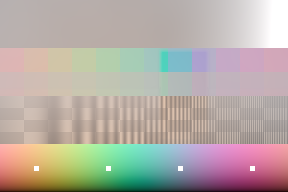
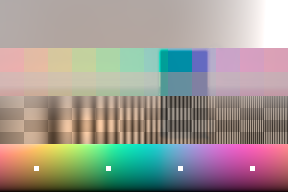
Fix depth

diff --git a/crates/calibraw-gpu/src/pipeline/gpu/scene_surface.rs b/crates/calibraw-gpu/src/pipeline/gpu/scene_surface.rs
@@ -17,14 +17,17 @@
 //! nearest smooth depth of its footprint instead, so a shadow ray that passes
 //! in front of every surface near it can skip testing them (relight.wgsl).
 //!
-//! All values are normalized relative depth (near 0, far 1) in the full-image
-//! coordinate frame of the square scene-depth texture. Gradients are depth per
+//! All of that works on the generated map, whose levels are even and whose
+//! thresholds below are in its units. The result is converted to relative distance
+//! (`scene_depth`, near 0, far 1) before the mip chain, in the full-image
+//! coordinate frame of the square scene-depth texture. Gradients are distance per
 //! length of the image's shorter edge, so they are isotropic in the image even
 //! though the texture stretches the image to a square.
 //!
 //! Every step computes each texel from the previous step alone, so rows are
 //! processed in parallel with results identical to a serial pass.
 
+use super::scene_depth::{distance_from_stored, distance_per_stored};
 use rayon::prelude::*;
 
 /// Mip levels of the scene-depth texture; the smallest is 16×16 at 1024.
@@ -62,8 +65,8 @@ const SOFT_EDGE_FLANK: usize = 8;
 /// above the depth model's noise on continuous surfaces.
 const SOFT_EDGE_EXCESS: f32 = 0.012;
 
-/// One mip level: per texel `[stored depth, smooth depth, ∂depth/∂x, ∂depth/∂y]`
-/// on level 0, and `[nearest smooth depth, smooth depth, ∂depth/∂x, ∂depth/∂y]`
+/// One mip level, in distance: per texel `[stored depth, smooth depth, ∂depth/∂x,
+/// ∂depth/∂y]` on level 0, and `[nearest smooth depth, smooth depth, ∂depth/∂x, ∂depth/∂y]`
 /// above it, where the nearest depth is the minimum over the texel's level-0
 /// footprint and the others are means.
 pub(super) struct SurfaceLevel {
@@ -89,7 +92,7 @@ fn texel_extent(edge: u32, aspect: f32) -> [f32; 2] {
 
 /// Derives the relighting surface from `stored`, the `edge`×`edge` bilinear
 /// resample of the stored depth. `aspect` is the image's width / height.
-/// Level 0 keeps `stored` unchanged in its first channel.
+/// Level 0 holds the distance of `stored` in its first channel.
 pub(super) fn derive_scene_surface(stored: &[f32], edge: u32, aspect: f32) -> Vec<SurfaceLevel> {
     let side = edge as usize;
     debug_assert_eq!(stored.len(), side * side);
@@ -112,11 +115,12 @@ pub(super) fn derive_scene_surface(stored: &[f32], edge: u32, aspect: f32) -> Ve
         .for_each(|(y, row)| {
             for (x, texel) in row.iter_mut().enumerate() {
                 let index = y * side + x;
+                let per_stored = distance_per_stored(smooth[index]);
                 *texel = [
-                    stored[index],
-                    smooth[index],
-                    rows[y][x] / extent[0],
-                    columns[x][y] / extent[1],
+                    distance_from_stored(stored[index]),
+                    distance_from_stored(smooth[index]),
+                    rows[y][x] / extent[0] * per_stored,
+                    columns[x][y] / extent[1] * per_stored,
                 ];
             }
         });

diff --git a/crates/calibraw-gpu/src/pipeline/gpu/ground_plane.rs b/crates/calibraw-gpu/src/pipeline/gpu/ground_plane.rs
@@ -1,8 +1,8 @@
 //! The horizon of the ground in scene depth, for Wet Surfaces
 //! (scene_analysis.wgsl).
 //!
-//! Distance, derived from stored depth, comes nearer toward the bottom of the image
-//! over the ground, and how fast depends on the photo: a nearby object squeezes
+//! Distance, converted from the generated map as for upload, comes nearer toward the
+//! bottom of the image over the ground, and how fast depends on the photo: a nearby object squeezes
 //! the ground's range. So a surface counts as ground by the direction of its
 //! gradient, with some slope at all, which walls (sideways) and surfaces facing
 //! the camera (nearly none) do not have. The same rule marks ground in the scene map; here it tells
@@ -19,9 +19,6 @@ use super::*;
 const GRID_LONG: usize = 96;
 /// Cells on each side between which a gradient is measured.
 const SPAN: usize = 2;
-/// How much of the depth model's inverse-depth range lies beyond the farthest
-/// surface: `SCENE_DISTANCE_INVERSE_SHIFT` in common.wgsl.
-pub(super) const SCENE_DISTANCE_INVERSE_SHIFT: f32 = 0.115;
 /// Distance at and beyond which nothing is ground: the sky and far scenery.
 /// The end of `SCENE_GROUND_FAR` in scene_analysis.wgsl.
 const FAR_DISTANCE: f32 = 0.77;
@@ -59,7 +56,7 @@ pub(super) fn estimate_ground_horizon(depth: &MaskImage, up: [f32; 2]) -> Option
     }
     let distances: Vec<f32> = block_means(depth, block, columns, rows)
         .into_iter()
-        .map(distance_from_depth)
+        .map(scene_depth::distance_from_stored)
         .collect();
     let at = |x: usize, y: usize| distances[y * columns + x];
     // Shorter-edge lengths per cell.
@@ -130,11 +127,6 @@ pub(super) fn estimate_ground_horizon(depth: &MaskImage, up: [f32; 2]) -> Option
     reaches.sort_unstable_by(f32::total_cmp);
     let index = ((reaches.len() - 1) as f32 * REACH_SHARE) as usize;
     Some(reaches[index] + HORIZON_MARGIN)
-}
-
-/// Relative distance of a depth: `scene_distance_from_depth` in common.wgsl.
-fn distance_from_depth(depth: f32) -> f32 {
-    depth * SCENE_DISTANCE_INVERSE_SHIFT / (1.0 - depth + SCENE_DISTANCE_INVERSE_SHIFT)
 }
 
 /// The depth's mean over blocks of `block` × `block` pixels, which also undoes

diff --git a/crates/calibraw-gpu/src/pipeline/gpu/scene_depth.rs b/crates/calibraw-gpu/src/pipeline/gpu/scene_depth.rs
@@ -1,5 +1,10 @@
 //! Uploading full-image scene depth and the surface derived from it
 //! (`scene_surface`), the one depth every effect reads.
+//!
+//! The generated map is linear in the depth model's inverse depth i (stored = 1 - i), so
+//! most of a scene lies near 1. Effects read relative distance instead, as fog builds
+//! up, the ground runs and light falls off over distance, converted here alone. Depth
+//! Range masks select on the map itself and are not affected.
 
 use super::scene_surface::{derive_scene_surface, SurfaceLevel};
 use super::*;
@@ -10,6 +15,22 @@ pub(super) fn valid_scene_depth(depth: &MaskImage) -> bool {
     depth.width > 0
         && depth.height > 0
         && (depth.width as usize).checked_mul(depth.height as usize) == Some(depth.pixels.len())
+}
+
+/// How much of the inverse depth's range lies beyond the farthest surface, as distance
+/// goes as 1 / (i + shift). Fitted to a distance-linear depth model's output for the
+/// same photo.
+const INVERSE_DEPTH_SHIFT: f32 = 0.115;
+
+/// Relative distance of a stored depth, both normalized with near 0 and far 1.
+pub(super) fn distance_from_stored(stored: f32) -> f32 {
+    stored * INVERSE_DEPTH_SHIFT / (1.0 - stored + INVERSE_DEPTH_SHIFT)
+}
+
+/// Change of `distance_from_stored` per change of stored depth, to convert a gradient.
+pub(super) fn distance_per_stored(stored: f32) -> f32 {
+    let gap = 1.0 - stored + INVERSE_DEPTH_SHIFT;
+    INVERSE_DEPTH_SHIFT * (1.0 + INVERSE_DEPTH_SHIFT) / (gap * gap)
 }
 
 /// The depth result last uploaded, and whether its surface was.
@@ -134,7 +155,10 @@ fn encoded_scene_depth(depth: &MaskImage, surface: bool) -> Arc<[EncodedLevel]> 
             height: SCENE_DEPTH_EDGE,
             texels: resampled_depth(depth)
                 .iter()
-                .map(|&value| [value, value, 0.0, 0.0])
+                .map(|&stored| {
+                    let distance = distance_from_stored(stored);
+                    [distance, distance, 0.0, 0.0]
+                })
                 .collect(),
         };
         return Arc::from([encode_level(&level)]);

diff --git a/crates/calibraw-gpu/src/pipeline/gpu/layout_contract_tests.rs b/crates/calibraw-gpu/src/pipeline/gpu/layout_contract_tests.rs
@@ -646,22 +646,6 @@ fn scene_map_cell_matches_its_wgsl_declaration() {
         shared_u32_constant(&modules, "SCENE_EDGE_REACH"),
         SCENE_EDGE_SUPPORT
     );
-    let inverse_shift = modules
-        .iter()
-        .find_map(|(_, module)| {
-            module.constants.iter().find_map(|(_, constant)| {
-                (constant.name.as_deref().map(undecorated) == Some("SCENE_DISTANCE_INVERSE_SHIFT"))
-                    .then(|| match module.global_expressions[constant.init] {
-                        naga::Expression::Literal(naga::Literal::F32(value)) => value,
-                        ref other => panic!("not an f32 literal: {other:?}"),
-                    })
-            })
-        })
-        .expect("SCENE_DISTANCE_INVERSE_SHIFT is declared");
-    assert_eq!(
-        inverse_shift,
-        super::ground_plane::SCENE_DISTANCE_INVERSE_SHIFT
-    );
 }
 
 #[test]

diff --git a/docs/ARCHITECTURE.md b/docs/ARCHITECTURE.md
@@ -250,10 +250,9 @@ scene, so an effect may read any of it whichever pass it runs in:
 - `scene_depth.wgsl` is the one depth (`scene_depth_at`). Fog, Smoke and Wet Surfaces
   read it directly; Relight asks it which part of the surface derived from depth a
   pixel lies on (`scene_surface_taps_at`), since shading needs that surface's own
-  smooth depth and gradient. It is linear in the depth model's inverse depth, so what
-  builds up or is judged over real distance converts it: Rain reads `scene_distance_at`,
-  and the ground analysis finds the ground in distance. Lens blur, Depth Range masks
-  and Relight's frame stay on depth.
+  smooth depth and gradient. It is relative distance, converted from the generated map
+  (linear in inverse depth) on upload (`scene_depth.rs`); Depth Range masks select on
+  the map itself.
 - `scene_environment.wgsl` is the scene's light as effects receive it: its ambient
   level, the photo's coarse colour and the light sources in the photo.
 - `scene_lights.wgsl` turns Relight and Light Rays into lights any effect receives,
